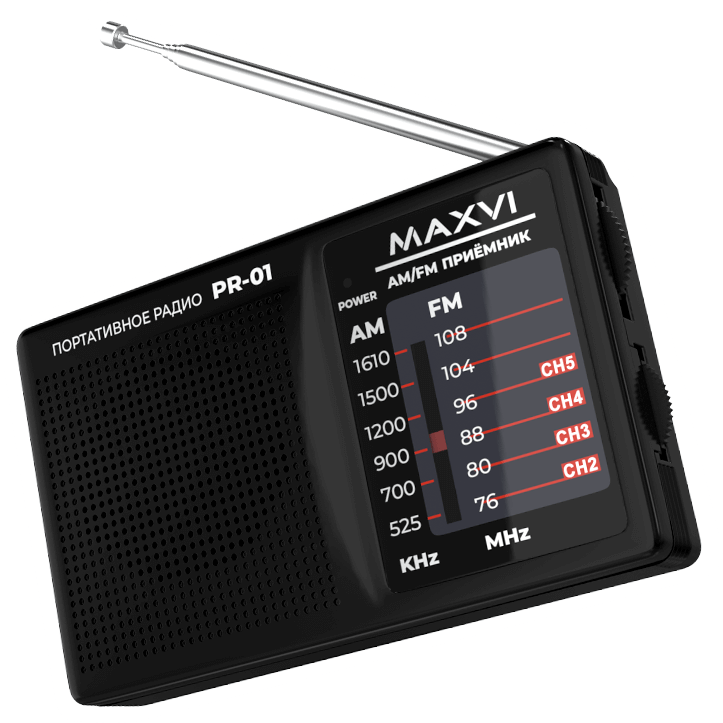
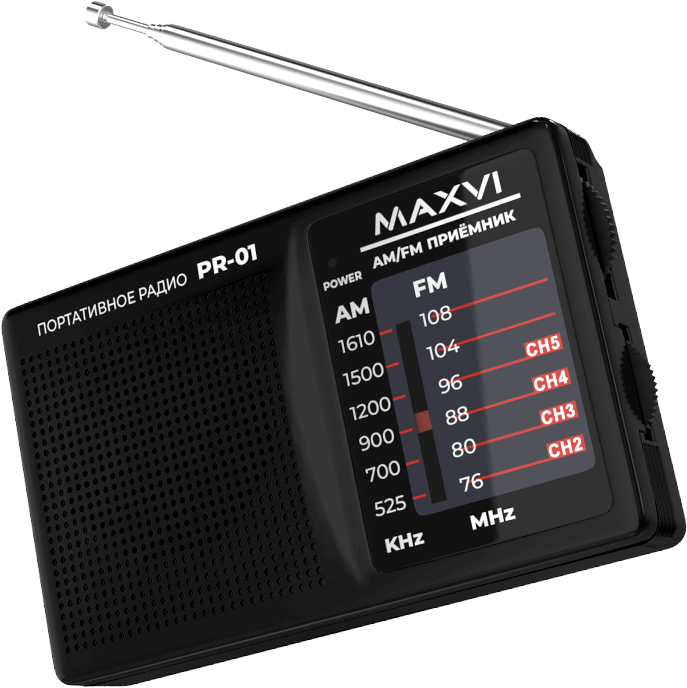
Maxvi PR 01 update

Changed region(s): [[0.0, 0.0, 1.0, 1.0], [0.2445, 0.5494, 0.3057, 0.7326]]

diff --git a/PR-01/css/pr-01-style-responsive.css b/PR-01/css/pr-01-style-responsive.css
@@ -1,2 +1,2 @@
-@media (max-width: 1199px){.pr-01-intro{height:640px}.pr-01-intro .pr-01-title{top:140px;font-size:44px}.pr-01-intro .pr-01-subtitle{top:305px;font-size:40px}.pr-01-intro .pr-01-description{top:390px;font-size:26px}.pr-01-intro .pr-01-logo{width:106px;height:18px}.pr-01-intro .pr-01-media-figure{width:422px;height:580px}.pr-01-presentation{height:640px}.pr-01-presentation .pr-01-title{font-size:32px}.pr-01-presentation .pr-01-media-figure{width:438px;height:594px}.pr-01-presentation .pr-01-presentaiton-antenna-block{top:45px}.pr-01-presentation .pr-01-presentaiton-connector-block{top:308px}.pr-01-presentation .pr-01-presentaiton-switch-block{top:460px}.pr-01-outside{height:640px}.pr-01-outside .pr-01-title{top:340px;font-size:44px}.pr-01-outside .pr-01-media-figure{width:542px;height:542px}}@media (max-width: 991px){.pr-01-landing .container{padding-left:40px;padding-right:40px}.pr-01-intro{height:540px}.pr-01-intro .pr-01-title{top:110px;font-size:36px}.pr-01-intro .pr-01-subtitle{top:245px;font-size:32px}.pr-01-intro .pr-01-description{top:320px;font-size:20px}.pr-01-intro .pr-01-logo{width:84px;height:14px}.pr-01-intro .pr-01-media-figure{width:338px;height:464px}.pr-01-presentation{height:540px}.pr-01-presentation .pr-01-title{font-size:26px}.pr-01-presentation .pr-01-media-figure{width:394px;height:534px}.pr-01-presentation .pr-01-presentaiton-antenna-block{top:45px}.pr-01-presentation .pr-01-presentaiton-connector-block{top:285px}.pr-01-presentation .pr-01-presentaiton-switch-block{top:410px}.pr-01-outside{height:540px}.pr-01-outside .pr-01-title{top:270px;font-size:34px}.pr-01-outside .pr-01-media-figure{width:434px;height:434px}.pr-01-features-grid .pr-01-feature-item{flex:0 0 33.3333%;max-width:33.3333%}}@media (max-width: 767px){.pr-01-landing .container{padding-left:20px;padding-right:20px}.pr-01-landing .content-inner{margin-bottom:40px;text-align:center}.pr-01-title{margin:0 0 15px;font-size:24px !important;line-height:1.35}.pr-01-description{margin:0 0 20px;font-size:18px;line-height:1.3}.pr-01-title[data-aos],.pr-01-subtitle[data-aos],.pr-01-description[data-aos],.pr-01-media-figure[data-aos],.pr-01-presentaiton-block[data-aos],.pr-01-presentaiton-inner[data-aos]{transform:translate(0, 50px)}.pr-01-title[data-aos].aos-animate,.pr-01-subtitle[data-aos].aos-animate,.pr-01-description[data-aos].aos-animate,.pr-01-media-figure[data-aos].aos-animate,.pr-01-presentaiton-block[data-aos].aos-animate,.pr-01-presentaiton-inner[data-aos].aos-animate{transform:translate(0)}.pr-01-intro{height:570px}.pr-01-intro .pr-01-title{top:40px}.pr-01-intro .pr-01-subtitle{top:115px;font-size:24px}.pr-01-intro .pr-01-description{top:490px;font-size:16px}.pr-01-intro .pr-01-logo{width:64px;height:11px}.pr-01-intro .pr-01-media-figure{top:115px;width:270px;height:auto}.pr-01-presentation{height:790px}.pr-01-presentation .pr-01-media-figure{top:350px;left:15px;right:15px;width:315px;height:auto}.pr-01-presentation .pr-01-presentaiton-block::before{display:none}.pr-01-presentation .pr-01-presentaiton-block .pr-01-presentaiton-inner{transition-delay:0 !important}.pr-01-presentation .pr-01-presentaiton-antenna-block{top:40px}.pr-01-presentation .pr-01-presentaiton-connector-block{top:160px}.pr-01-presentation .pr-01-presentaiton-switch-block{top:280px}.pr-01-outside{height:600px}.pr-01-outside .pr-01-title,.pr-01-outside .pr-01-subtitle,.pr-01-outside .pr-01-description{text-align:left}.pr-01-outside .pr-01-title{top:40px;-webkit-text-stroke-width:8px}.pr-01-outside .pr-01-media-figure{top:200px;width:348px;height:348px}.pr-01-features-grid .pr-01-feature-item{flex:0 0 50%;max-width:50%}}@media (max-width: 575px){.pr-01-outside .pr-01-outside-bg{width:100%}}@media (max-width: 375px){.pr-01-features-grid .pr-01-feature-item{flex:0 0 100%;max-width:100%}}
+@media (max-width: 1199px){.pr-01-intro{height:640px}.pr-01-intro .pr-01-title{top:140px;font-size:44px}.pr-01-intro .pr-01-subtitle{top:305px;font-size:40px}.pr-01-intro .pr-01-description{top:390px;font-size:26px}.pr-01-intro .pr-01-logo{width:106px;height:18px}.pr-01-intro .pr-01-media-figure{width:422px;height:580px}.pr-01-presentation{height:640px}.pr-01-presentation .pr-01-title{font-size:32px}.pr-01-presentation .pr-01-media-figure{width:438px;height:594px}.pr-01-presentation .pr-01-presentaiton-antenna-block{top:45px}.pr-01-presentation .pr-01-presentaiton-connector-block{top:308px}.pr-01-presentation .pr-01-presentaiton-switch-block{top:460px}.pr-01-outside{height:640px}.pr-01-outside .pr-01-title{top:340px;font-size:44px}.pr-01-outside .pr-01-media-figure{width:516px;height:516px}}@media (max-width: 991px){.pr-01-landing .container{padding-left:40px;padding-right:40px}.pr-01-intro{height:540px}.pr-01-intro .pr-01-title{top:110px;font-size:36px}.pr-01-intro .pr-01-subtitle{top:245px;font-size:32px}.pr-01-intro .pr-01-description{top:320px;font-size:20px}.pr-01-intro .pr-01-logo{width:84px;height:14px}.pr-01-intro .pr-01-media-figure{width:338px;height:464px}.pr-01-presentation{height:540px}.pr-01-presentation .pr-01-title{font-size:26px}.pr-01-presentation .pr-01-media-figure{width:394px;height:534px}.pr-01-presentation .pr-01-presentaiton-antenna-block{top:45px}.pr-01-presentation .pr-01-presentaiton-connector-block{top:285px}.pr-01-presentation .pr-01-presentaiton-switch-block{top:410px}.pr-01-outside{height:540px}.pr-01-outside .pr-01-title{top:270px;font-size:34px}.pr-01-outside .pr-01-media-figure{width:412px;height:412px}.pr-01-features-grid .pr-01-feature-item{flex:0 0 33.3333%;max-width:33.3333%}}@media (max-width: 767px){.pr-01-landing .container{padding-left:20px;padding-right:20px}.pr-01-landing .content-inner{margin-bottom:40px;text-align:center}.pr-01-title{margin:0 0 15px;font-size:24px !important;line-height:1.35}.pr-01-description{margin:0 0 20px;font-size:18px;line-height:1.3}.pr-01-title[data-aos],.pr-01-subtitle[data-aos],.pr-01-description[data-aos],.pr-01-media-figure[data-aos],.pr-01-presentaiton-block[data-aos],.pr-01-presentaiton-inner[data-aos]{transform:translate(0, 50px)}.pr-01-title[data-aos].aos-animate,.pr-01-subtitle[data-aos].aos-animate,.pr-01-description[data-aos].aos-animate,.pr-01-media-figure[data-aos].aos-animate,.pr-01-presentaiton-block[data-aos].aos-animate,.pr-01-presentaiton-inner[data-aos].aos-animate{transform:translate(0)}.pr-01-intro{height:570px}.pr-01-intro .pr-01-title{top:40px}.pr-01-intro .pr-01-subtitle{top:115px;font-size:24px}.pr-01-intro .pr-01-description{top:490px;font-size:16px}.pr-01-intro .pr-01-logo{width:64px;height:11px}.pr-01-intro .pr-01-media-figure{top:115px;width:270px;height:auto}.pr-01-presentation{height:790px}.pr-01-presentation .pr-01-media-figure{top:350px;left:15px;right:15px;width:315px;height:auto}.pr-01-presentation .pr-01-presentaiton-block::before{display:none}.pr-01-presentation .pr-01-presentaiton-block .pr-01-presentaiton-inner{transition-delay:0 !important}.pr-01-presentation .pr-01-presentaiton-antenna-block{top:40px}.pr-01-presentation .pr-01-presentaiton-connector-block{top:160px}.pr-01-presentation .pr-01-presentaiton-switch-block{top:280px}.pr-01-outside{height:600px}.pr-01-outside .pr-01-title,.pr-01-outside .pr-01-subtitle,.pr-01-outside .pr-01-description{text-align:left}.pr-01-outside .pr-01-title{top:40px;-webkit-text-stroke-width:8px}.pr-01-outside .pr-01-media-figure{top:200px;width:320px;height:320px}.pr-01-features-grid .pr-01-feature-item{flex:0 0 50%;max-width:50%}}@media (max-width: 575px){.pr-01-outside .pr-01-outside-bg{width:100%}}@media (max-width: 375px){.pr-01-features-grid .pr-01-feature-item{flex:0 0 100%;max-width:100%}}
 /*# sourceMappingURL=pr-01-style-responsive.css.map */

diff --git a/PR-01/scss/pr-01-style-responsive.scss b/PR-01/scss/pr-01-style-responsive.scss
@@ -67,8 +67,10 @@
         }
 
         .pr-01-media-figure {
-            width: 542px;
-            height: 542px;
+            width: 516px;
+            height: 516px;
+            // width: 542px;
+            // height: 542px;
         }
     }
     /* section outside end */
@@ -150,8 +152,10 @@
         }
 
         .pr-01-media-figure {
-            width: 434px;
-            height: 434px;
+            width: 412px;
+            height: 412px;
+            // width: 434px;
+            // height: 434px;
         }
     }
     /* section outside end */
@@ -293,8 +297,10 @@
 
         .pr-01-media-figure {
             top: 200px;
-            width: 348px;
-            height: 348px;
+            width: 320px;
+            height: 320px;
+            // width: 348px;
+            // height: 348px;
         }
     }
     /* section outside end */

diff --git a/PR-01/scss/pr-01-style.scss b/PR-01/scss/pr-01-style.scss
@@ -332,8 +332,10 @@
         top: 40px;
         left: 15px;
         right: 15px;
-        width: 723px;
-        height: 723px;
+        width: 688px;
+        height: 688px;
+        // width: 723px;
+        // height: 723px;
         margin: auto;
 
         .pr-01-media {
